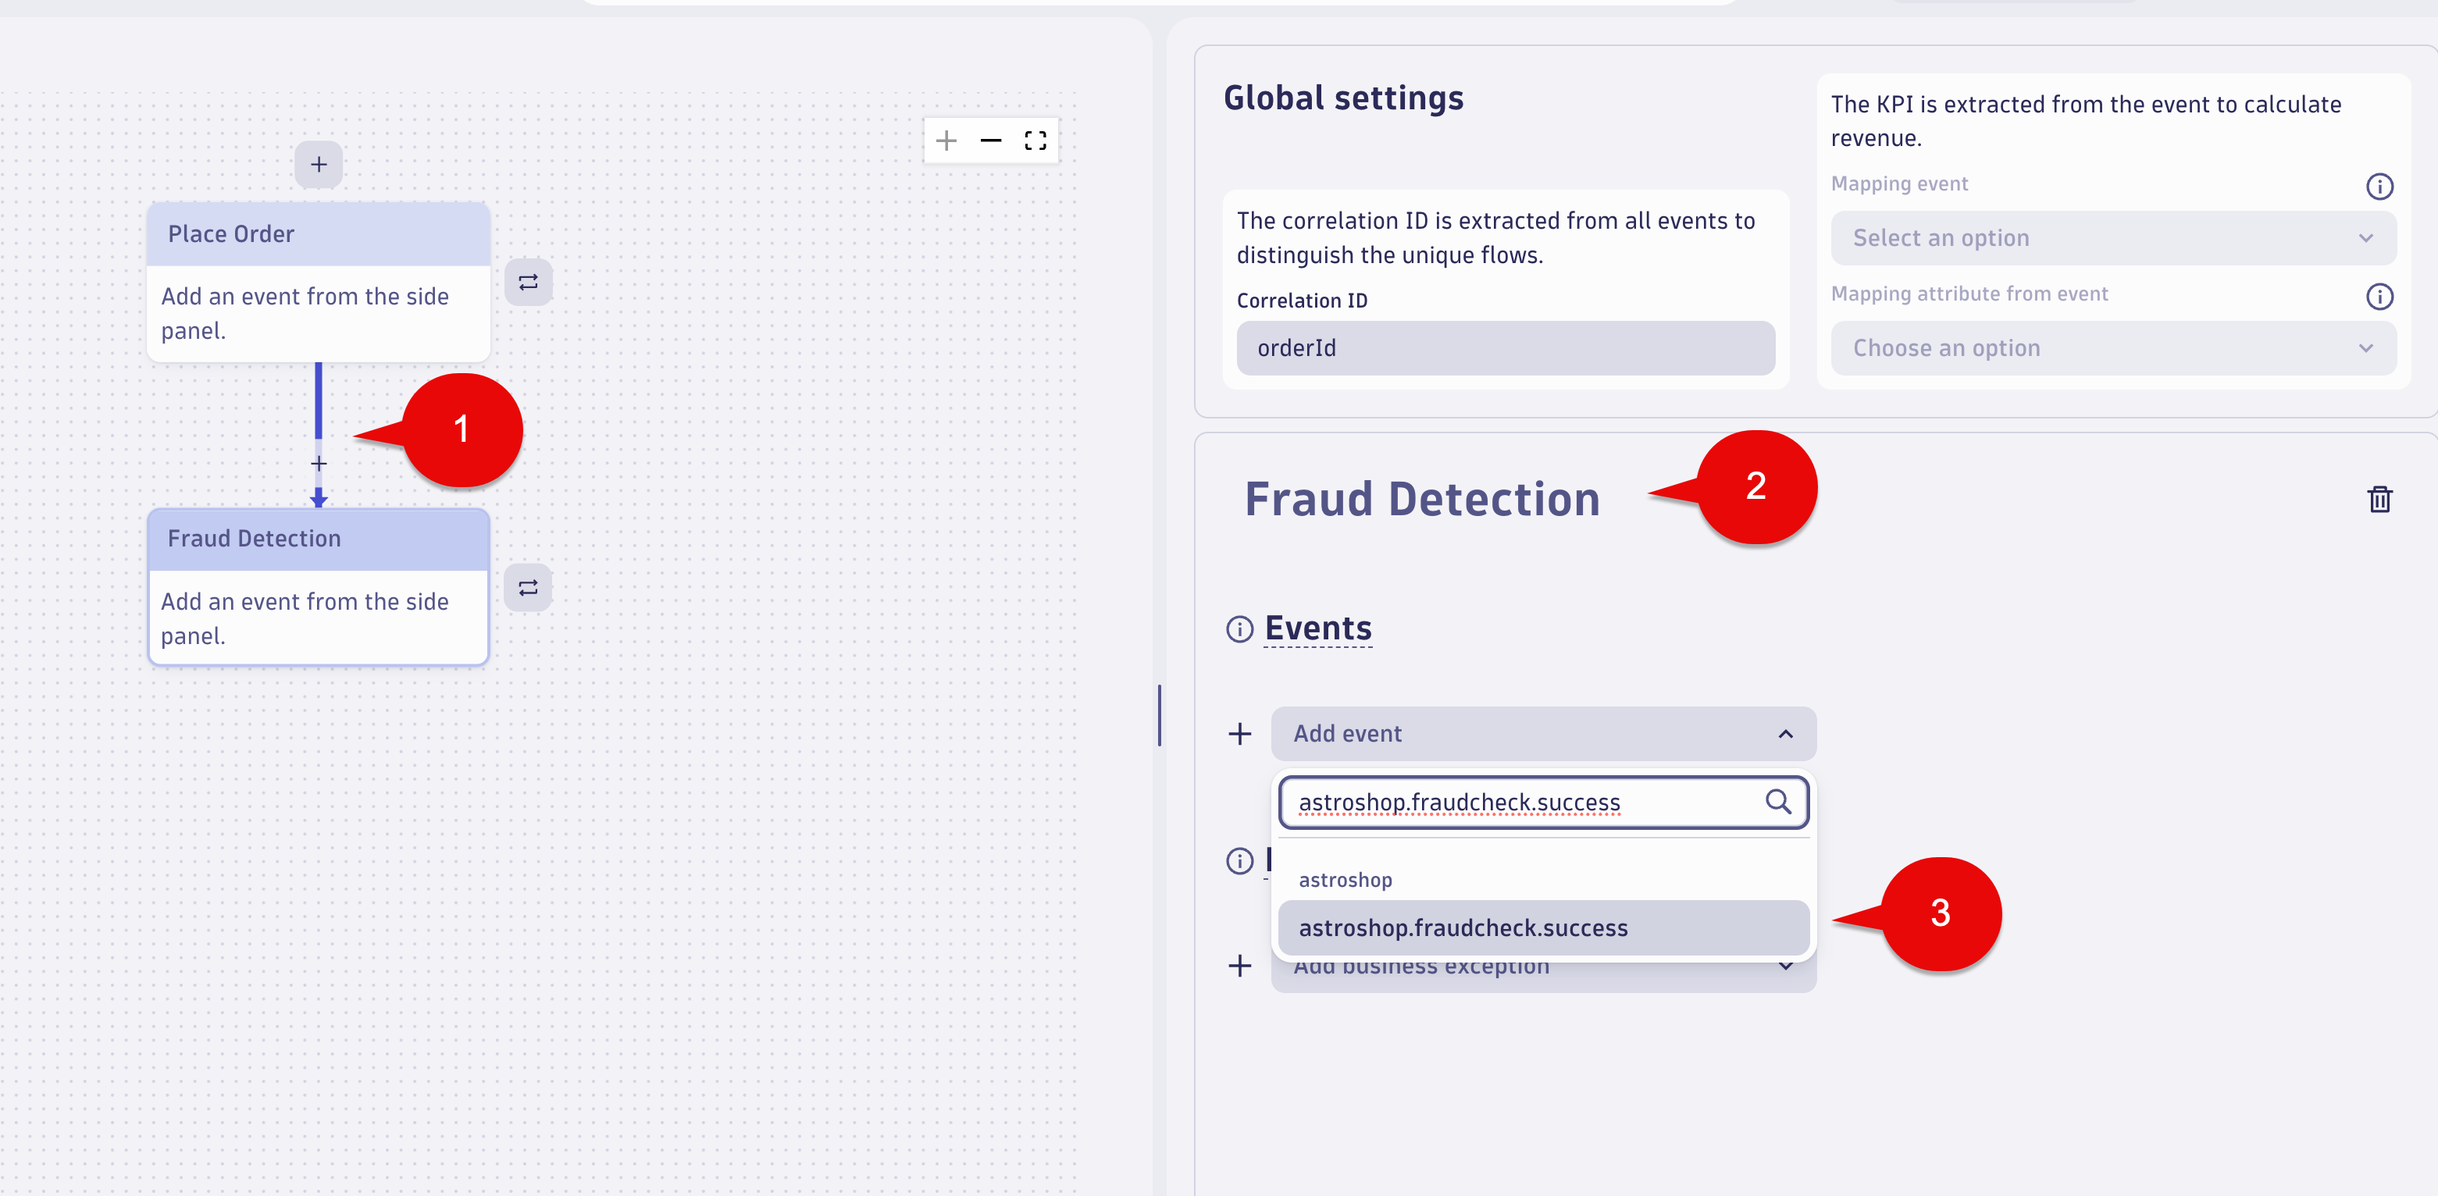
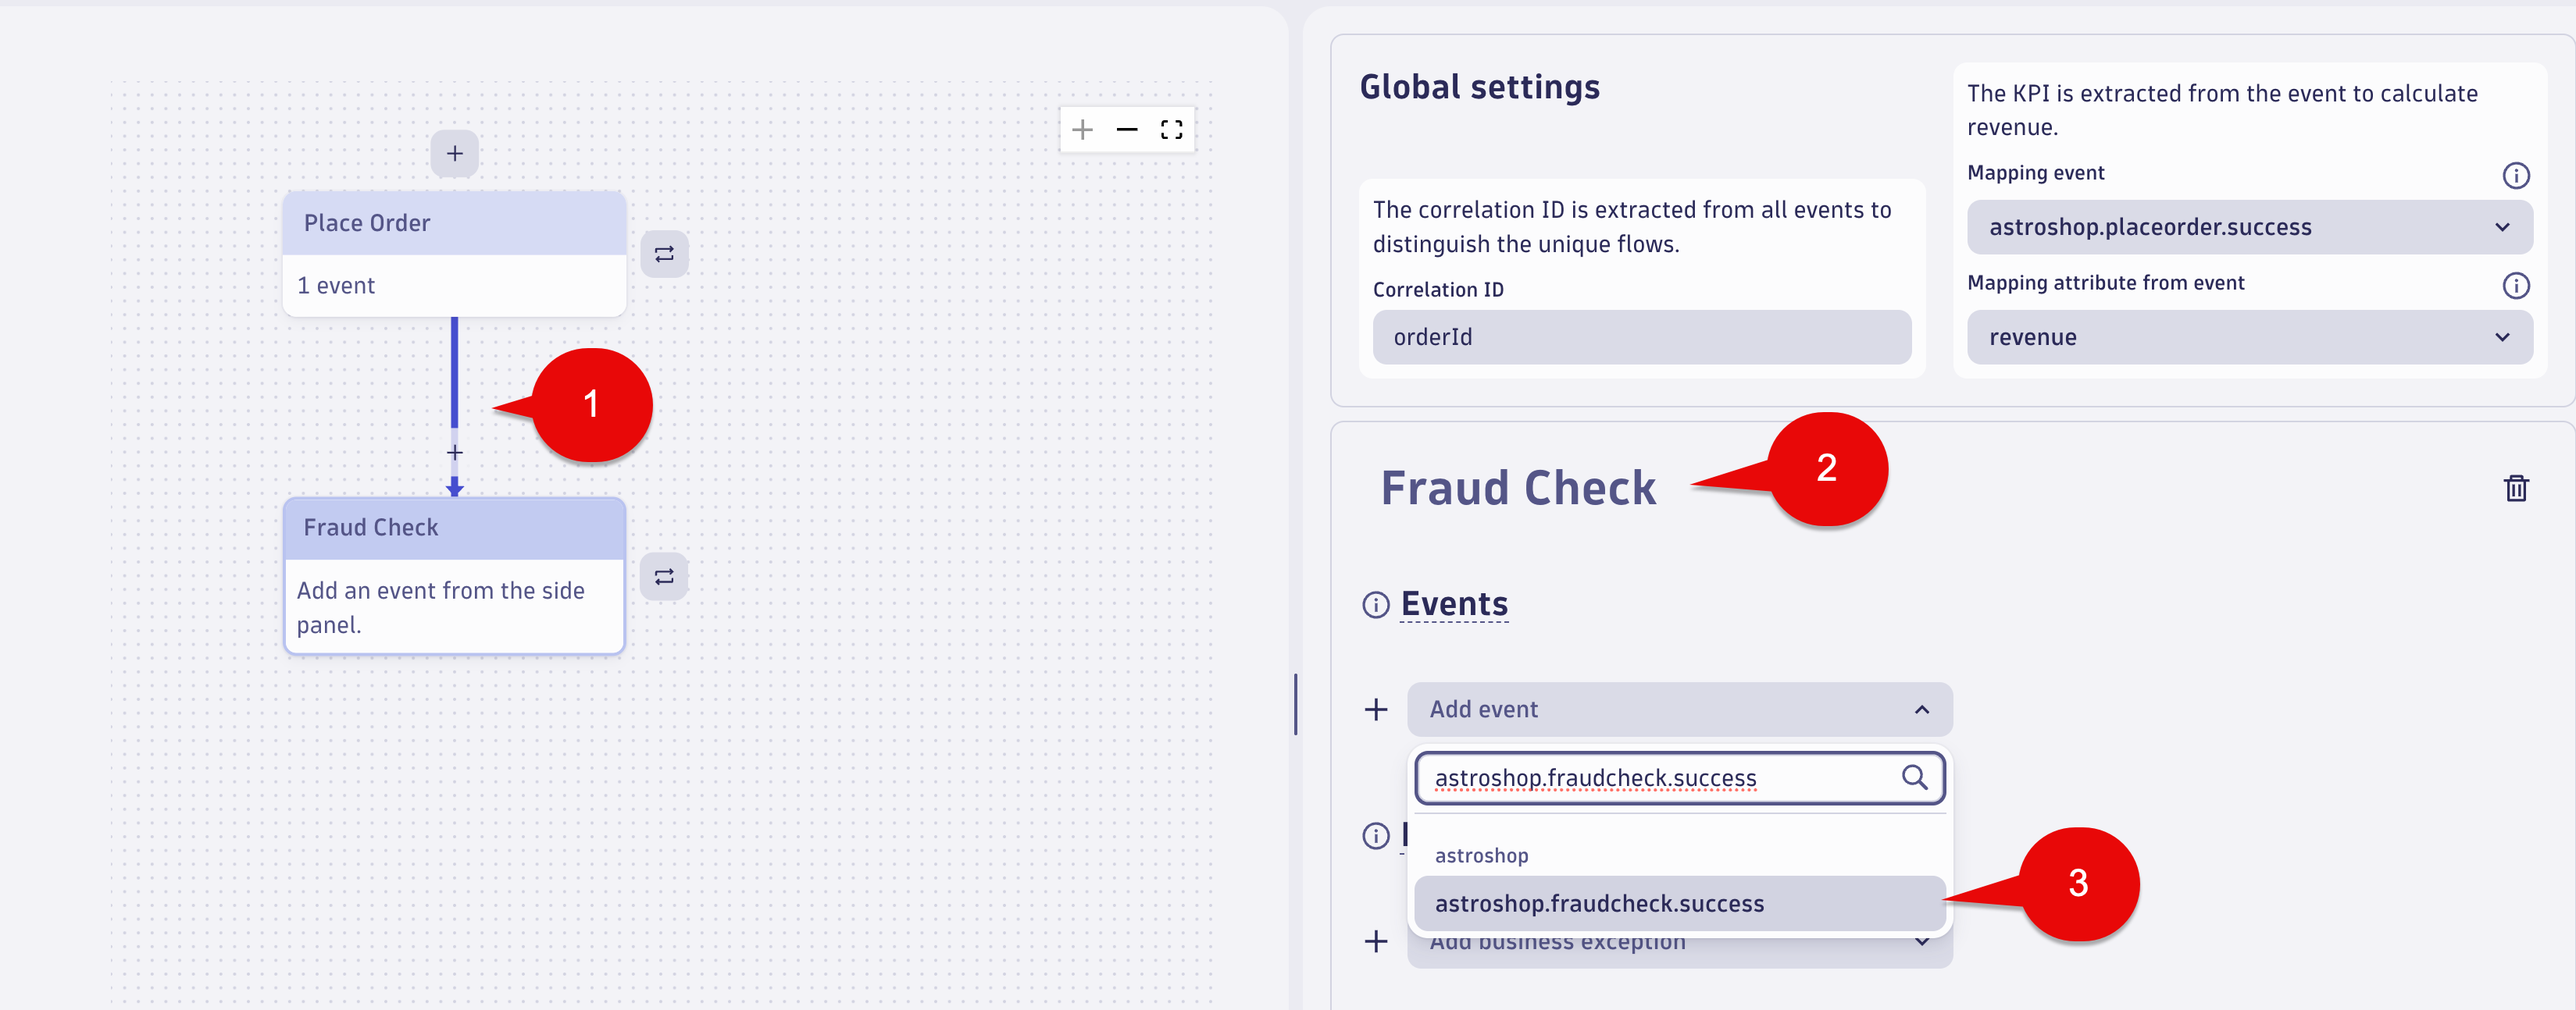
Updates

diff --git a/lab-guide/content/04_bizevents_api/01_bizevents_api/index.md b/lab-guide/content/04_bizevents_api/01_bizevents_api/index.md
@@ -2,19 +2,69 @@
 
 In this section of the lab we will use a Dynatrace Workflow to send simulated events that represent the Astroshop Shipping system when an Order is shipped.  These events will leverage the Business Events API for the `Order Shipped` step of the Astroshop `Order to Shipped` business process.  
 
-### Workflow
+### Workflow - Import
 
-1.  Click this link and download to your local system
+1.  Open the Dynatrace Workflow app
 
-2.  Open the Dynatrace Workflow app
+2.  Import the workflow 'Astroshop - Order Shipped' using the source file [Astroshop - Order Shipped](https://github.com/dynatrace-wwse/enablement-workflow-essentials/blob/main/lab-guide/assets/lab-guide/assets/dt_wftpl_astroshop_-_order_shipped.yaml)
 
-3.  Import the `Astroshop - Order Shipped` workflow from your local system
+3.  Workflows are imported using the Upload button.  Upload the `Astroshop - Order Shipped` workflow from your local system, the select `Import` button.
 
-4. 
+![Workflow Import](../../../assets/images/04_bizevents_api_ordershipped_worklow_import.png)
 
-###  Workflow Configuration
+###  Workflow - js_set_parameters
 
-1. 
+1. Select the `js_set_parameters`
+
+`Note:` Good best practice for any workflow you create. This will be the task/action that defines the parameters/variables that will be used by subsequent tasks and returns them in the result. By setting the parameters as nested attribute key:value pairs within a single variable, as additional parameters are needed they can easily be added without modifying any other code.
+
+2. In the `Input section` set the values of the missing variables wiht the following:
+
+-  BIZEVENTS_API_URL:
+
+    * Replace `<tenant-id-env>` with your Dynatrace environment ID and Env
+    
+    ```txt
+    Prod Example:   `xxxxxx.live.dynatrace.com`  
+    Sprint Example: `xxxxxx.sprint.dynatracelabs.com`
+    ```
+
+- BIZEVENTS_API_TOKEN:
+
+    * Use the API token we created in the Environment Setup
+
+![js_set_parameters](../../../assets/images/04_bizevents_api_ordershipped_worklow_js_set_parameters.png)
+
+Example should look like below:
+
+![js_set_parameters example](../../../assets/images/04_bizevents_api_ordershipped_worklow_js_set_parameters_example.png)
+
+###  Workflow - Enable and Save
+
+1. Enable the `Event Trigger` flow
+
+2. Select Save button
+
+![Enable and Save Workflow](../../../assets/images/04_bizevents_api_ordershipped_worklow_enable_save.png)
+
+###  Workflow - Review
+
+We will review the task(s)/action(s) of the `Astroshop - Order Shipped` Workflow.  As discussed above, the workflow is sending simulated events that represent the Astroshop Shipping system when an Order is shipped.
+
+The most important task/action of this workflow is `insert_biz_event` task/action.  The included parameters match the required paramaters as if your customer was sending Business Events programatically from their Environment/System to Dynatrace Business Events API.
+
+Below are the settings used in the `insert_biz_event` task/action of the `Astroshop - Order Shipped` workflow.
+
+![Enable and Save Workflow](../../../assets/images/04_bizevents_api_ordershipped_worklow_http_api.png)
+
+[Business Events API Documenation](https://docs.dynatrace.com/docs/shortlink/ba-api-ingest#ingest-endpoint)
+
+![Enable and Save Workflow](../../../assets/images/04_bizevents_api_doc_screen_1.png)
+
+![Enable and Save Workflow](../../../assets/images/04_bizevents_api_doc_screen_2.png)
+
+###  Workflow - Validate
+
 
 
 ### Conclusion

diff --git a/lab-guide/content/07_bizevents_business_flow/01_bizevents_business_flow/index.md b/lab-guide/content/07_bizevents_business_flow/01_bizevents_business_flow/index.md
@@ -47,12 +47,17 @@ astroshop.placeorder.success
 
 ![Flow Step 1](../../../assets/images/06_bizevents_business_flow_config_step1.png)
 
-5. For Flow Step 2, click the `Place Order` step.  Select the + button on the bottom .  The will add a new step under the `Place Order` step.  Use the following:
+After picking `astroshop.placeorder.success`, the `Place Order` step shoud look like this below:
+
+![Flow Step 1](../../../assets/images/06_bizevents_business_flow_config_step1_b.png)
+
+
+5. For Flow Step 2, click the `Place Order` step.  Select the + button on the bottom .  This will add a new step under the `Place Order` step. Use the following:
 
 Name:
 
 ```txt
-Fraud Detection
+Fraud Check
 ```
 
 Drop-down event box:
@@ -61,9 +66,13 @@ Drop-down event box:
 astroshop.fraudcheck.success
 ```
 
-![Step 2](../../../assets/images/06_bizevents_business_flow_config_step2.png)
+![Flow Step 2](../../../assets/images/06_bizevents_business_flow_config_step2.png)
 
-5. For Flow Step 3, click the `Fraud Detection` step.  Select the + button on the bottom .  The will add a new step under the `Fraud Detection` step.  Use the following:
+After picking `astroshop.fraudcheck.success`, the `Fraud Check` step shoud look like this below:
+
+![Flow Step 2](../../../assets/images/06_bizevents_business_flow_config_step2_b.png)
+
+5. For Flow Step 3, click the `Fraud Check` step.  Select the + button on the bottom.  This will add a new step under the `Fraud Check` step.  Use the following:
 
 Name:
 
@@ -78,6 +87,10 @@ astroshop.ordershipped.success
 ```
 
 ![Flow Step 3](../../../assets/images/06_bizevents_business_flow_config_step3.png)
+
+After picking `astroshop.ordershipped.success`, the `Order Shipped` step shoud look like this below:
+
+![Flow Step 2](../../../assets/images/06_bizevents_business_flow_config_step3_b.png)
 
 6. For the KPI is extracted from the event to calculate revenue section, use the following:
 

diff --git a/lab-guide/content/07_bizevents_business_flow/02_bizevents_business_flow_data_validation/index.md b/lab-guide/content/07_bizevents_business_flow/02_bizevents_business_flow_data_validation/index.md
@@ -39,4 +39,4 @@ The Tree view displays all steps with the corresponding numbers of unique flows 
 
 ### Conclusion
 
-We have completed the `Business Flow` for the Astroshop `Order to Shipped` business process data validation.
+We have completed data validation for the Astroshop `Order to Shipped` Business Flow.

diff --git a/lab-guide/content/04_bizevents_api/02_bizevents_api_data_validation/index.md b/lab-guide/content/04_bizevents_api/02_bizevents_api_data_validation/index.md
@@ -20,4 +20,4 @@ Result:
 
 ### Conclusion
 
-We have completed the Business Event data validation for the `Order Shipped` step of the `Order to Shipped` business process.
+We have completed data validation for the `Order Shipped` step of the `Order to Shipped` business process.

diff --git a/lab-guide/content/02_bizevents_oneagent/03_bizevents_oneagent_capture_data_validation/index.md b/lab-guide/content/02_bizevents_oneagent/03_bizevents_oneagent_capture_data_validation/index.md
@@ -20,4 +20,4 @@ Result:
 
 ### Conclusion
 
-We have completed the Business Event data validation for the `Place Order` step of the `Order to Shipped` business process.
+We have completed data validation for the `Place Order` step of the `Order to Shipped` business process.

diff --git a/lab-guide/content/03_bizevents_logs/02_bizevents_log_pipeline_data_validation/index.md b/lab-guide/content/03_bizevents_logs/02_bizevents_log_pipeline_data_validation/index.md
@@ -20,4 +20,4 @@ Result:
 
 ### Conclusion
 
-We have completed the Business Event data validation for the `Fraud Check` step of the `Order to Shipped` business process.
+We have completed data validation for the `Fraud Check` step of the `Order to Shipped` business process.

diff --git a/lab-guide/content/06_bizevents_alert/02_bizevents_alert_data_validation/index.md b/lab-guide/content/06_bizevents_alert/02_bizevents_alert_data_validation/index.md
@@ -10,4 +10,4 @@ Open Problems's App,  you should see `Astroshop - Orders with Zero Values` probl
 
 ### Conclusion
 
-We have completed the `Place Order` Business Alert data validation.
+We have completed data validation for the `Place Order` business alert.

diff --git a/lab-guide/content/05_bizevents_metric/02_bizevents_metric_data_validation/index.md b/lab-guide/content/05_bizevents_metric/02_bizevents_metric_data_validation/index.md
@@ -16,4 +16,4 @@ Result:
 
 ### Conclusion
 
-We have completed the Business Event metric data validation for the `Place Order` metric.
+We have completed data validation for the `Place Order` business metric.
